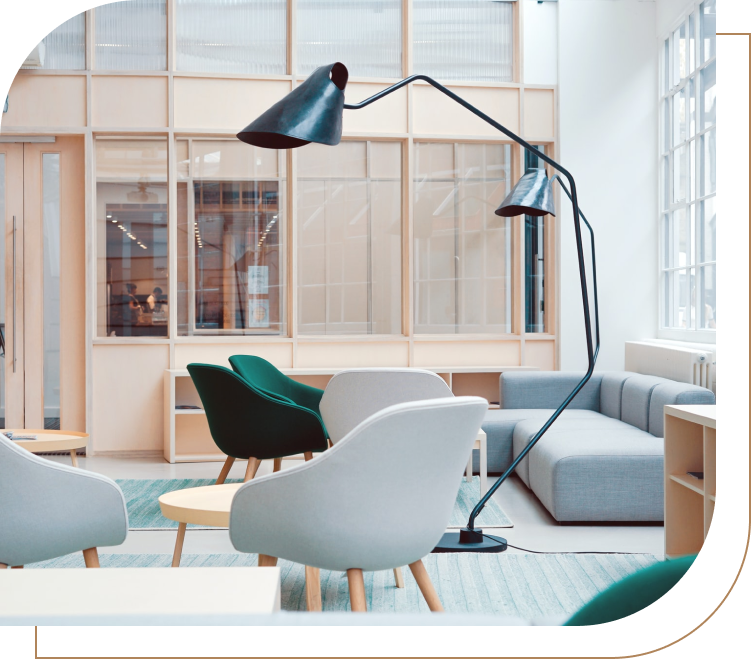
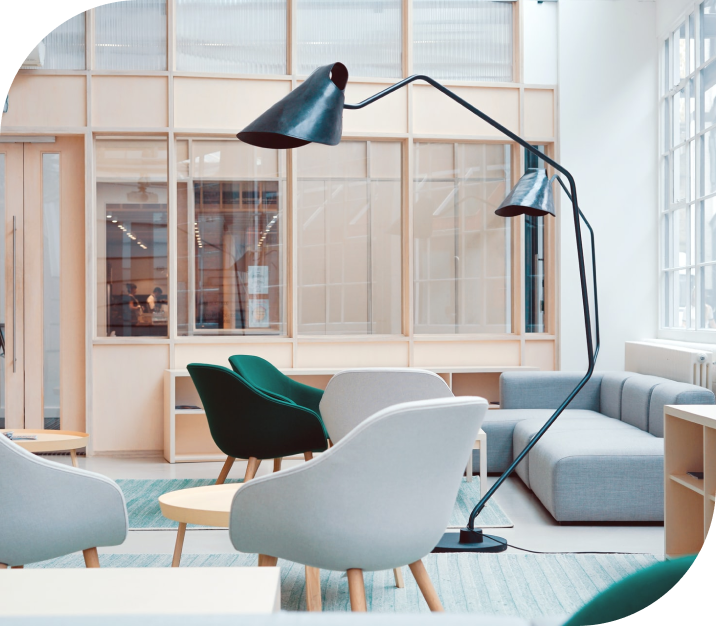
Hero area

diff --git a/decbase.css b/decbase.css
@@ -19,9 +19,43 @@ body {
 }
 h1, h2, h3, h4 {
     font-family: 'Poppins', sans-serif; 
-    font-weight: normal;
+    font-weight: 500;
+    color: #212121;
 }
 
+.theme-button {
+    font-size: 18px;
+    font-weight: 600;
+    background-color: #37806B;
+    color: #fff;
+    text-decoration: none;
+    border-radius: 20px 0px;
+    padding: 10px 20px;
+    transition: 0.3s;
+    display: inline-block;
+    margin-top: 20px;
+}
+
+.theme-button:hover {
+    background-color: #CAA892;
+    color: #fff;
+}
+.design-image {
+    position: relative;
+    z-index: 1;
+    border-radius: 140px 0;
+}
+.design-image::after {
+    position: absolute;
+    content: "";
+    top: 20px;
+    left: 20px;
+    border: 2px solid #CAA892;
+    width: 100%;
+    height: 100%;
+    border-radius: 140px 0;
+    z-index: -1;
+}
 /* Header css */
 .header-area .nav-item {
     margin-left: 30px;
@@ -39,8 +73,7 @@ h1, h2, h3, h4 {
     background-color: #CAA892;
     text-transform: capitalize;
     color: #fff;
-    border-top-left-radius: 20px;
-    border-bottom-right-radius: 20px;
+    border-radius: 20px 0px;
     padding: 10px 20px;
     margin-left: 35px;
 }
@@ -59,10 +92,28 @@ h1, h2, h3, h4 {
 }
 
 /* 
- Main area css
+ hero-area css
 */
-.main-area {
-    padding: 200px 0;
+.hero-area {
+    padding: 70px 0;
+}
+.hero-text {
+
+}
+.hero-text h3 {
+    color: #646464;
+    font-size: 20px;
+    text-transform: uppercase;
+}
+.hero-text h2 {
+    text-transform: capitalize;
+    font-size: 70px;
+    
+    font-weight: 500;
+
+}
+.hero-img {
+
 }
 
 /* 

diff --git a/index.html b/index.html
@@ -59,7 +59,30 @@
 
     <!-- Start Main -->
     <main class="main-area">
-     
+     <!-- start hero -->
+     <section class="hero-area">
+      <div class="container">
+        <div class="row d-flex align-items-center">
+          <div class="col-lg-6 mb-lg-0 mb-5">
+            <div class="hero-text pe-0 pe-lg-3">
+              <h3>MODERN INTERIOR</h3>
+              <h2>Create Your
+                Interior Design.</h2>
+                <p>Lorem ipsum dolor sit amet, consectetur adipiscing elit, sed do eiusmod tempor incididunt ut labore et dolore magna aliqua. Ut enim ad minim veniam, quis nostrud exercitation.</p>
+                <a href="#" class="theme-button">Contact</a>
+            </div>
+          </div>
+          <div class="col-lg-6">
+            <div class="hero-img design-image">
+              <img src="assets/img/hero.png" alt="Create Your
+              Interior Design." class="img-fluid">
+            </div>
+          </div>
+        </div>
+      </div>
+     </section>
+     <!-- end hero -->
+
     </main>
     <!-- End Main -->
 
